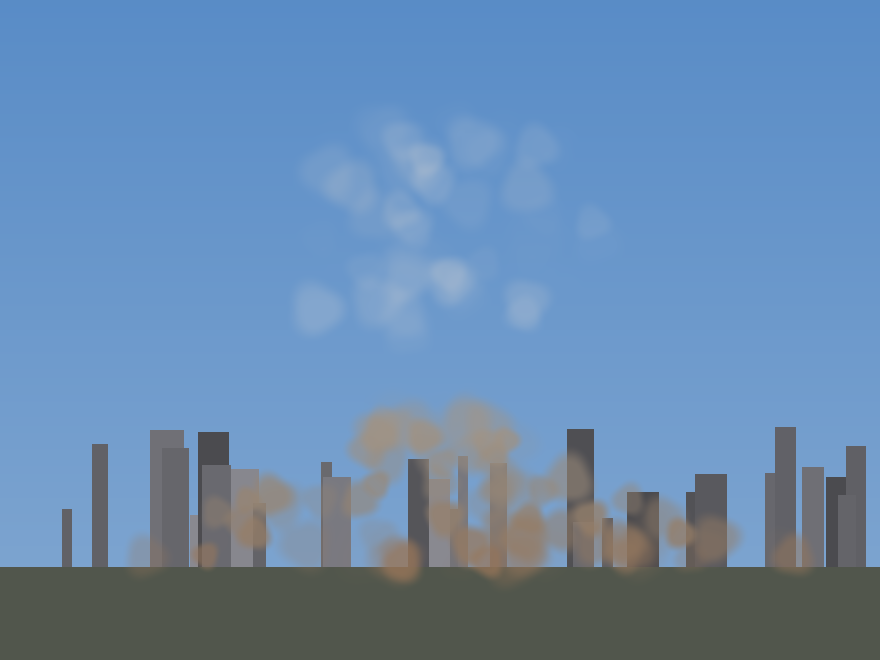
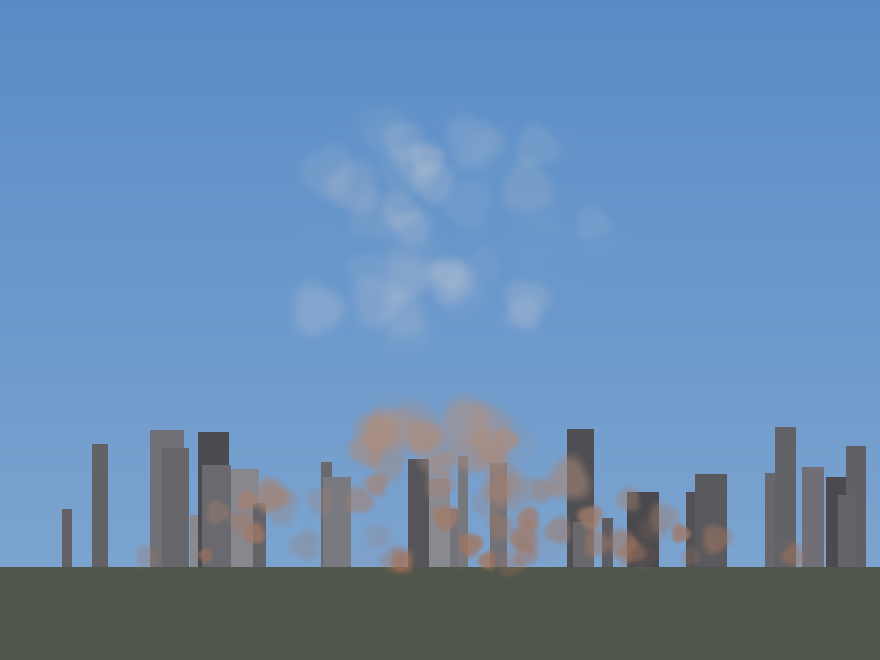
feat: read the vanilla meteor cloud out of the game files, adopt its lessons
The user was right to push back on "the DLC is not on disk": Natural
Disasters ships BAKED INTO THE BASE INSTALL - there is no separate
depot, which is why Steam had nothing to download and why verify
integrity changed nothing. The prefabs sit in sharedassets55.assets,
and UnityPy reads Unity 5.6 serialized ParticleSystems directly. The
full extraction - every system of Huge/Large Explosion and the Meteor
trail, sizes, lifetimes, launch speeds, clamps, gravity, size and
colour curves, alphas - is written up in
docs/effects/vanilla-meteor-reference.md.

What the reference settled: vanilla has no uniform fade either. Every
particle carries its own random lifetime and its own alpha ramp to
zero - the cloud dies particle by particle, staggered, which is the
approach this mod already ships, made deterministic. The leap-then-
brake launch (75-150 m/s clamped to 20-30) and the buoyant rise
(negative gravity) also match what the mod does explicitly.

Adopted from it:
- growth over life: every vanilla system swells 0.4 -> 1.0 as it ages,
  so the column and fire-smoke puffs now grow as they climb - smoke
  expanding as it rises and cools
- the palette: the ground dust is re-seated on the game's own
  aged-smoke brown (0.69, 0.42, 0.38, darkened), so the mod's smoke
  sits in the game's palette

Deliberately not adopted, with reasons in the reference doc: the thin
alphas (vanilla's lingering smoke peaks at 0.13 - a see-through cloud
[…]

diff --git a/src/MissileDisaster/Core/CloudPuffs.cs b/src/MissileDisaster/Core/CloudPuffs.cs
@@ -163,7 +163,10 @@ namespace MissileDisaster.Core
                 float r0 = dims.FireFieldRadius * (0.3f + 0.7f * p.Rho01);
                 dist = r0 * (1f - FireInwardPull * Smooth(fu));
                 y = (float)Math.Pow(fu, 1.3) * capBase * FireSmokeHeightFraction;
-                point.Size = dims.FireFieldRadius * (0.09f + 0.08f * p.Size01);
+                // Vanilla's smoke swells 0.4 -> 1.0 over its life; fresh smoke is small and
+                // expands as it rises and cools. Same here, per loop.
+                point.Size = dims.FireFieldRadius * (0.09f + 0.08f * p.Size01)
+                    * (0.55f + 0.45f * Smooth(fu));
                 point.Fade = EdgeFade(fu, FireEdgeFade);
                 point.Dust = 1f - 0.3f * fu;
                 // The fires themselves keep glowing where the smoke is freshest, for the whole
@@ -203,7 +206,7 @@ namespace MissileDisaster.Core
                 float radial = 0.25f + 0.75f * p.Rho01;
                 float wobble = 1f + 0.18f * (float)Math.Sin(p.Wobble + u * 9.4f + t * 0.4f);
                 dist = stemR * shape * radial * wobble;
-                point.Size = stemR * (0.7f + 0.5f * p.Size01);
+                point.Size = stemR * (0.7f + 0.5f * p.Size01) * (0.7f + 0.3f * Smooth(u));
                 point.Fade = LoopFade(u);
                 point.Dust = 0.85f - 0.5f * u; // dust at the base, paling as it climbs
                 point.Ember = EmberEnvelope(t, dims.RiseSeconds) * u * 0.6f; // the glow is up near the fireball

diff --git a/tools/effect-preview/cloud_preview.py b/tools/effect-preview/cloud_preview.py
@@ -143,7 +143,7 @@ class Puffs:
         radial = 0.25 + 0.75 * self.rho[m]
         wob = 1 + 0.18 * np.sin(self.wobble[m] + u * 9.4 + t * 0.4)
         dist[m] = stemR * shape * radial * wob
-        size[m] = stemR * (P["col_size0"] + P["col_size1"] * self.size01[m])
+        size[m] = stemR * (P["col_size0"] + P["col_size1"] * self.size01[m]) * (0.7 + 0.3 * smooth(u))
         edge = 0.06
         fade[m] = np.where(u < edge, smooth(u / edge), np.where(u > 1 - edge, smooth((1 - u) / edge), 1.0))
         dust[m] = 0.85 - 0.5 * u
@@ -158,7 +158,7 @@ class Puffs:
         pull = P["fire_pull"]
         dist[f] = r0 * (1.0 - pull * smooth(fu))
         y[f] = fu ** 1.3 * cap_base * 0.7
-        size[f] = d.fire_field * (P["fire_size0"] + P["fire_size1"] * self.size01[f])
+        size[f] = d.fire_field * (P["fire_size0"] + P["fire_size1"] * self.size01[f]) * (0.55 + 0.45 * smooth(fu))
         edge = 0.10
         fade[f] = np.where(fu < edge, smooth(fu / edge),
                            np.where(fu > 1 - edge, smooth((1 - fu) / edge), 1.0))
@@ -203,7 +203,7 @@ def puff_alpha_profile(dd, phase, P):
 
 # ---------------------------------------------------------------- compositing
 
-VAPOUR = np.array([0.93, 0.93, 0.94]); DUST_G = np.array([0.52, 0.45, 0.37])
+VAPOUR = np.array([0.93, 0.93, 0.94]); DUST_G = np.array([0.58, 0.43, 0.36])
 EMBER = np.array([1.0, 0.45, 0.12])
 
 

diff --git a/src/MissileDisaster/Game/Effects/MushroomCloudPuffsFx.cs b/src/MissileDisaster/Game/Effects/MushroomCloudPuffsFx.cs
@@ -26,7 +26,9 @@ namespace MissileDisaster.Game.Effects
         // a groundburst is dustier across the board. Ember is the fire showing through early.
         private static readonly Color VapourColor = new Color(0.93f, 0.93f, 0.94f, 1f);
         private static readonly Color DustColorAir = new Color(0.62f, 0.58f, 0.53f, 1f);
-        private static readonly Color DustColorGround = new Color(0.52f, 0.45f, 0.37f, 1f);
+        // The ground dust sits on the game's own aged-smoke brown (the meteor effect ages its
+        // smoke to 0.69, 0.42, 0.38), slightly darkened, so the mod's smoke shares the palette.
+        private static readonly Color DustColorGround = new Color(0.58f, 0.43f, 0.36f, 1f);
         private static readonly Color EmberColor = new Color(1f, 0.45f, 0.12f, 1f);
         // Verified in tools/effect-preview/cloud_preview.py: with the opaque-cored cloud
         // texture these measure 0.997 opacity across the cap's body. The cap is still a touch

diff --git a/docs/effects/vanilla-meteor-reference.md b/docs/effects/vanilla-meteor-reference.md
@@ -1,0 +1,53 @@
+# The vanilla meteor impact effect, read out of the game's own assets
+
+The Natural Disasters content is **baked into the base install** — there is no separate DLC
+depot; buying the DLC only unlocks it. That is why Steam had nothing to download, and it is
+what makes this reference possible on any install: the prefabs sit in
+`Cities_Data/sharedassets55.assets`, readable with UnityPy.
+
+Extracted 2026-08-10 with UnityPy 1.25.3 (Unity 5.6 serialized ParticleSystems).
+
+## The effect family
+
+`Huge Explosion Effect` (what `MeteorAI.m_impactEffect` points at), `Large Explosion Effect`,
+`Meteor Effect` (the falling trail), each a `MultiEffect` of ParticleSystems plus a Light.
+
+## The mushroom recipe (Huge Explosion)
+
+| system | life (random 0..x) | launch speed | clamp | size | gravity | size over life | colour over life | peak alpha |
+|---|---|---|---|---|---|---|---|---|
+| Particles (flash) | 4 s | 150 m/s hemisphere | 30 m/s | up to 100 m | 0 | 0.41 → 1.0 | white → (0.64,0.40,0.37) | 0.68 at 7% of life |
+| Particles 2 (cloud) | 6 s | 75 m/s | 20 m/s | up to 100 m | **−1.0** | 0.41 → 1.0 | white → (0.69,0.42,0.38) | 0.68 |
+| Smoke (linger) | 10 s | 4 m/s | 20 m/s | up to 100 m | **−0.5** | — | white | **0.13** |
+| Spark (debris) | 10 s | 800 m/s | 75 m/s | 2 m | +1.0 | 0.70 → 1.0 | white → warm | 1.0 |
+
+Whole effect: duration 15 s. Renderer: billboards, `maxParticleSize` left at the 0.5 default.
+
+## What this confirms about the mod's cloud
+
+- **No uniform fade exists in vanilla either.** Every particle carries its own random
+  lifetime (0–4/0–6/0–10 s) and its own alpha ramp to zero: the cloud dies particle by
+  particle, staggered. The mod's per-puff staggered dissolve is the same idea, made
+  deterministic.
+- **Fast burst, hard clamp.** Launched at 75–150 m/s and immediately damped to 20–30 m/s —
+  the same leap-then-brake the mod's shock ring and fireball use.
+- **Buoyancy.** The cloud layers rise their whole life (negative gravity), which is what the
+  mod's climb curves do explicitly.
+
+## What was adopted
+
+- **Growth over life** (every vanilla system swells 0.4→1.0): the mod's column and fire-smoke
+  puffs now grow as they climb, which reads as smoke expanding while it rises and cools.
+- **The palette**: the game's own aged-smoke brown (0.69, 0.42, 0.38) informs the fire smoke's
+  dust colour, so the mod's smoke sits in the game's palette.
+
+## What was deliberately not adopted
+
+- **The thin alphas** (0.68 flash, 0.13 lingering smoke). The vanilla cloud is translucent;
+  the playtest verdict on a see-through cloud was unambiguous, and the mod holds its measured
+  0.997 cap opacity instead.
+- **The brown-aging cap.** A meteor cloud is dirt and stays dirty; a nuclear cap turns white
+  as its water condenses (both 1945 photographs). The mod keeps its physics colours for the
+  cap and uses the vanilla brown only where dirt belongs - the column and the fire smoke.
+- **`maxParticleSize` 0.5.** Vanilla lets the renderer clamp big sprites at close zoom; the
+  mod raises it so the cloud does not shrink exactly when the camera comes to admire it.
